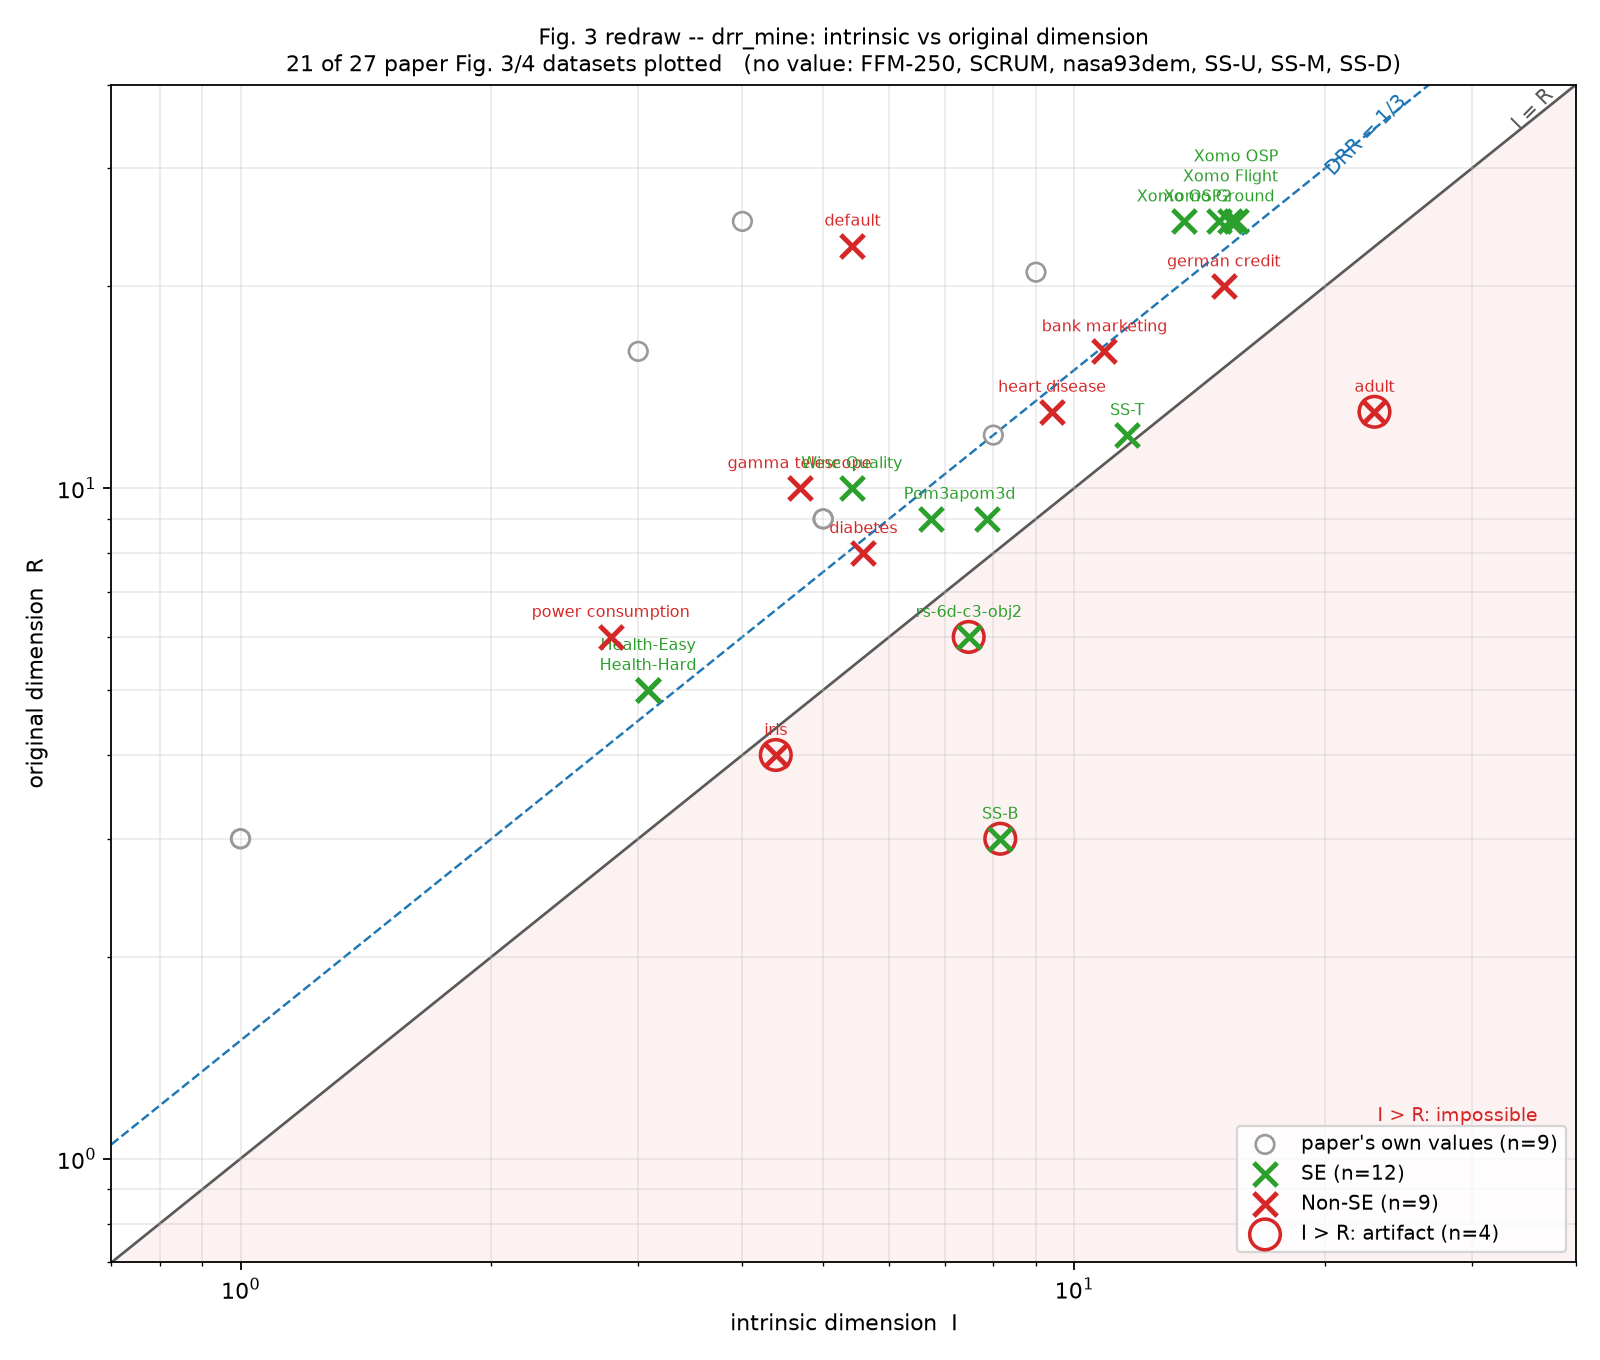
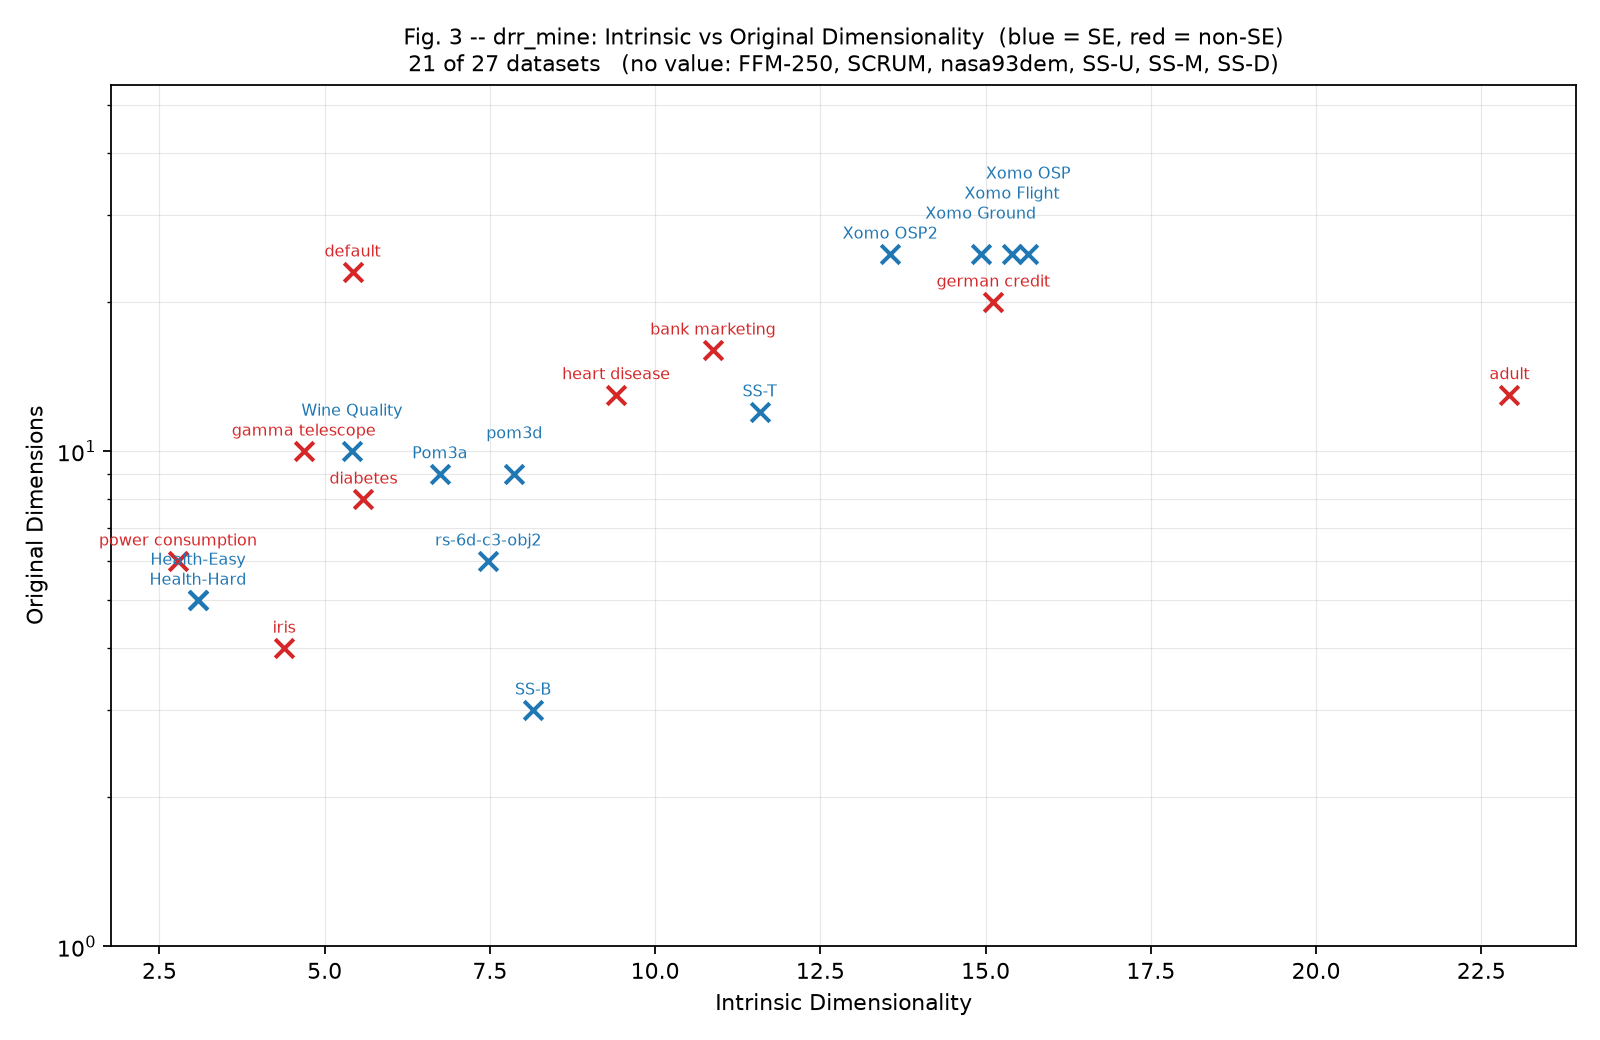
fig3: plain copy of the paper's layout; report DRR even when I > R
Fig. 3 was carrying reference lines (I=R, DRR=1/3), a shaded region, the
paper's own values as an overlay, and rings on the I>R points. Strip all of
it: the paper's figure is linear x, log y, blue=SE / red=non-SE, every point
labelled, nothing else. Only deviation is the marker -- crosses, not dots.
The paper's own I/R stay in the output csv for row-by-row comparison.

drr_mine/intrinsic_dim.py: I is an estimate, so it may exceed R; report
drr_fit (negative) in that case instead of withholding it. The status still
carries "warn: I_fit>R", but withholding hid the overshoot from anything
consuming drr_fit. 18 of 127 MOOT tasks are affected.

diff --git a/calculate_drr/run_fig3.py b/calculate_drr/run_fig3.py
@@ -2,21 +2,17 @@
 """Redraw the DRR paper's Figure 3 -- intrinsic dimension (x) against original
 dimension (y) -- with each of our three estimators.
 
+A plain copy of the paper's figure: linear x, log y, blue = SE and red =
+non-SE, every point labelled, no reference lines. The one deviation is the
+marker -- crosses instead of the paper's dots.
+
 Datasets are exactly the ones behind our Fig. 4 redraw (run_fig4.PAPER_FIG4:
 the paper's 18 SE + 9 non-SE points), so the two figures describe the same
-points and can be read against each other. SE / non-SE keep Fig. 4's colours.
+points and can be read against each other.
 
-Two reference lines carry the reading:
-  I = R        the identity. A correlation dimension cannot exceed the
-               embedding dimension, so anything on the right of this line is an
-               artifact, not a measurement. drr_upstream's released estimator
-               crosses it; its bug-fixed sibling cannot, by construction.
-  I = (2/3) R  the paper's Eq. 1 threshold, DRR = 1/3. Points above this line
-               are the "high DRR" datasets the paper's argument rests on.
-
-The paper's own (I, R) pairs from external/moot/drr/DRR.csv are drawn behind
-ours in grey wherever the dataset name matches, so a point that moved can be
-read directly.
+The paper's own (I, R) values from external/moot/drr/DRR.csv are carried in the
+output csv as paper_I / paper_R / paper_DRR for row-by-row comparison; they are
+not drawn on the figure.
 
 Backends are the same three as run_fig4.py and are imported from it, so both
 figures are produced by one definition of each estimator:
@@ -80,73 +76,43 @@ def plot_fig3(rows, out_png, backend):
 
     pts = [r for r in rows if isinstance(r["I"], float) and r["I"] == r["I"]
            and isinstance(r["R"], (int, float)) and r["R"]]
-    fig, ax = plt.subplots(figsize=(10, 8.5))
+    fig, ax = plt.subplots(figsize=(10, 6.5))
 
-    hi = max([r["R"] for r in pts] + [r["I"] for r in pts] + [10]) * 1.6
-    lo = 0.7
-    line = np.array([lo, hi])
-
-    # impossible region: I > R
-    ax.fill_between(line, line, lo, color="tab:red", alpha=0.06, zorder=0)
-    ax.plot(line, line, ls="-", lw=1.2, color="0.35", zorder=1)
-    ax.plot(line, line * 1.5, ls="--", lw=1.1, color="tab:blue", zorder=1)
-    ax.text(hi * 0.95, hi * 0.95, "I = R", ha="right", va="bottom", fontsize=9,
-            color="0.35", rotation=45, rotation_mode="anchor")
-    ax.text(hi / 1.5 * 0.95, hi * 0.93, "DRR = 1/3", ha="right", va="bottom",
-            fontsize=9, color="tab:blue", rotation=45, rotation_mode="anchor")
-    ax.text(hi * 0.9, lo * 1.6, "I > R: impossible", ha="right", va="bottom",
-            fontsize=8.5, color="tab:red")
-
-    # the paper's own points, behind ours
-    pap = [(r["paper_I"], r["paper_R"]) for r in rows
-           if isinstance(r.get("paper_I"), float) and r["paper_I"] == r["paper_I"]]
-    if pap:
-        ax.scatter([p[0] for p in pap], [p[1] for p in pap], s=70, marker="o",
-                   facecolors="none", edgecolors="0.6", linewidths=1.2, zorder=2,
-                   label=f"paper's own values (n={len(pap)})")
-
-    # SE / non-SE keep Fig. 4's colours; a ring marks a point in the impossible
-    # region so it stays visible whichever group it belongs to
-    for group, colour in (("SE", "tab:green"), ("Non-SE", "tab:red")):
+    # the paper's own layout: linear x, log y, blue = SE and red = non-SE,
+    # every point labelled. Crosses instead of the paper's dots.
+    for group, colour in (("SE", "tab:blue"), ("Non-SE", "tab:red")):
         sub = [r for r in pts if r["group"] == group]
         if not sub:
             continue
         ax.scatter([r["I"] for r in sub], [r["R"] for r in sub], marker="x",
-                   s=110, linewidths=2.2, color=colour, zorder=4,
-                   label=f"{group} (n={len(sub)})")
-    bad = [r for r in pts if r["I"] > r["R"]]
-    if bad:
-        ax.scatter([r["I"] for r in bad], [r["R"] for r in bad], s=190,
-                   facecolors="none", edgecolors="tab:red", linewidths=1.6,
-                   zorder=3, label=f"I > R: artifact (n={len(bad)})")
+                   s=70, linewidths=1.8, color=colour, zorder=3)
+
     # stack labels of coincident points instead of overprinting them: several
-    # SE tasks land on the same (I, R) to within a percent (Xomo/Osp variants,
-    # pom3a/pom3d, Health-Easy/Hard), so a fixed offset would draw them on top
-    # of each other
+    # SE tasks land on the same (I, R) (Xomo/OSP variants, pom3a/pom3d,
+    # Health-Easy/Hard), so a fixed offset would draw them on top of each other
+    span = max([r["I"] for r in pts] + [1]) - min([r["I"] for r in pts] + [0])
     placed = []
     for r in sorted(pts, key=lambda q: (-q["R"], q["I"])):
         near = sum(1 for q in placed
-                   if abs(np.log(q[0] / r["I"])) < 0.06
+                   if abs(q[0] - r["I"]) < 0.11 * span
                    and abs(np.log(q[1] / r["R"])) < 0.06)
         ax.annotate(r["dataset"], (r["I"], r["R"]), textcoords="offset points",
-                    xytext=(0, 9 + 9 * near), ha="center", fontsize=7,
-                    color="tab:green" if r["group"] == "SE" else "tab:red")
+                    xytext=(0, 7 + 9 * near), ha="center", fontsize=7,
+                    color="tab:blue" if r["group"] == "SE" else "tab:red")
         placed.append((r["I"], r["R"]))
 
     missing = [r["dataset"] for r in rows
                if not (isinstance(r["I"], float) and r["I"] == r["I"])]
-    ax.set_xscale("log")
     ax.set_yscale("log")
-    ax.set_xlim(lo, hi)
-    ax.set_ylim(lo, hi)
-    ax.set_xlabel("intrinsic dimension  I")
-    ax.set_ylabel("original dimension  R")
-    ax.set_title(f"Fig. 3 redraw -- {backend}: intrinsic vs original dimension\n"
-                 f"{len(pts)} of {len(rows)} paper Fig. 3/4 datasets plotted"
+    ax.set_ylim(1, max([r["R"] for r in pts] + [10]) * 2.2)
+    ax.set_xlabel("Intrinsic Dimensionality")
+    ax.set_ylabel("Original Dimensions")
+    ax.set_title(f"Fig. 3 -- {backend}: Intrinsic vs Original Dimensionality"
+                 f"  (blue = SE, red = non-SE)\n"
+                 f"{len(pts)} of {len(rows)} datasets"
                  + (f"   (no value: {', '.join(missing)})" if missing else ""),
                  fontsize=10)
-    ax.grid(alpha=0.25, which="both")
-    ax.legend(loc="lower right", fontsize=9)
+    ax.grid(alpha=0.3, which="both", lw=0.5)
     fig.tight_layout()
     fig.savefig(out_png, dpi=160)
     plt.close(fig)

diff --git a/drr_mine/intrinsic_dim.py b/drr_mine/intrinsic_dim.py
@@ -361,12 +361,14 @@ def estimate_intrinsic_dim(source, *, seed: int = 42, max_rows: int = 2000,
     R = out["R"]
     if not math.isfinite(out["I_fit"]):
         out["status"] = ("atomic_spectrum" if f["n_live"] else "no_scaling_region")
-    elif out["I_fit"] > R:
-        # a slope steeper than the embedding dimension is not a dimension;
-        # keep I_fit as evidence but refuse to turn it into a DRR
-        out["status"] = "warn: I_fit>R (no clean scaling region)"
     else:
+        # I is an ESTIMATE, so it can overshoot R; the DRR is reported either
+        # way (negative when it does) rather than withheld, and the status
+        # carries the warning. Withholding would hide the overshoot from any
+        # aggregate that consumes drr_fit.
         out["drr_fit"] = 1.0 - out["I_fit"] / R
+        if out["I_fit"] > R:
+            out["status"] = "warn: I_fit>R (estimate overshoots R)"
     if math.isfinite(out["I_maxgrad"]):
         out["drr_maxgrad"] = 1.0 - out["I_maxgrad"] / R
 
